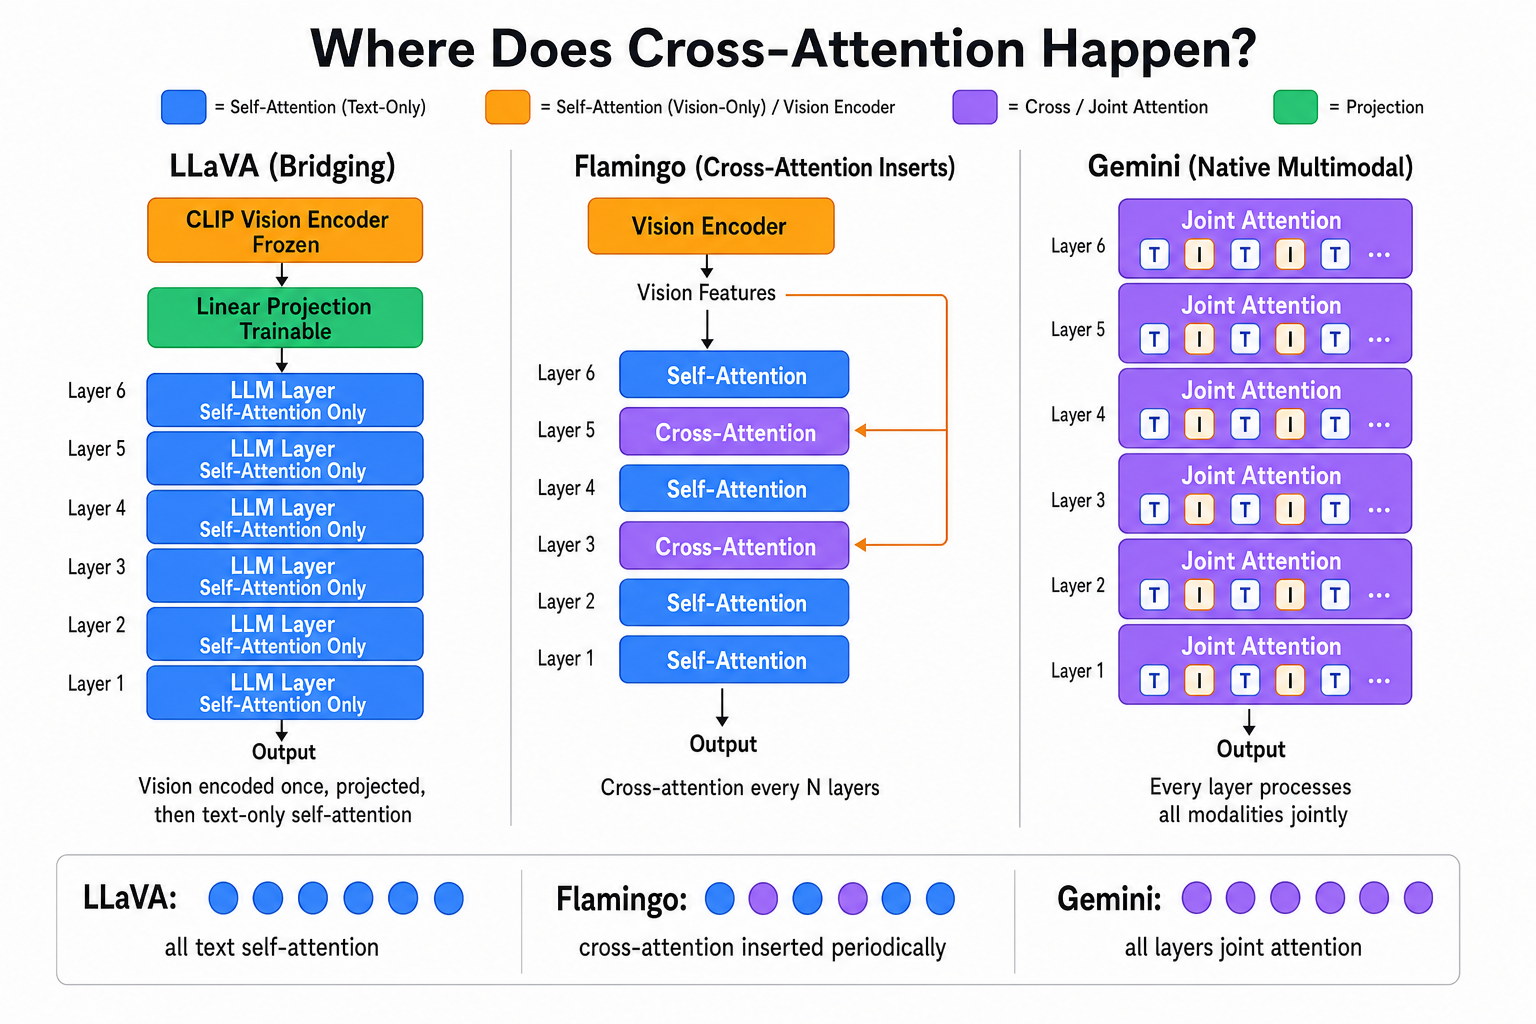
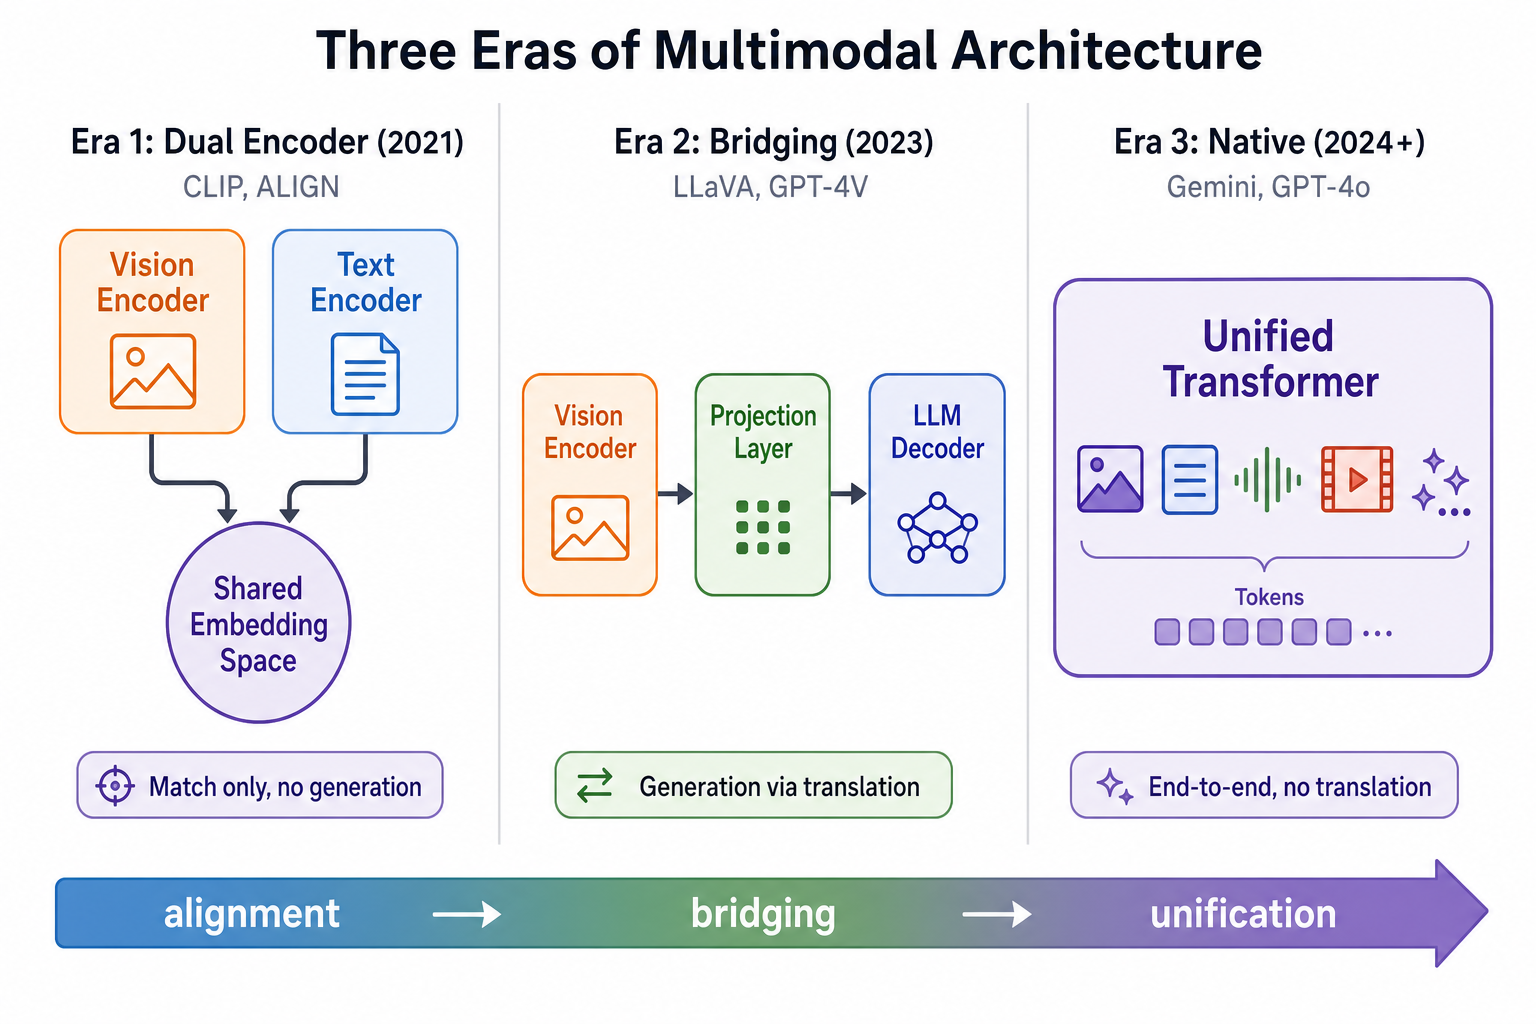
Day 30: fix image placement - restore era overview to ch4, add layer comparison to section 5.2

diff --git a/articles/en/day30-multimodal-basics.md b/articles/en/day30-multimodal-basics.md
@@ -251,6 +251,9 @@ Different architectures place cross-attention at different depths:
 
 The trend is clear: earlier architectures added cross-attention as an afterthought; modern architectures bake it into every layer.
 
+![Where Does Cross-Attention Happen? A Layer-by-Layer Comparison](../zh/images/day30/cross-attention-placement-comparison.png)
+*Figure 5: Layer-level architecture comparison of LLaVA, Flamingo, and Gemini. LLaVA projects vision features once then uses self-attention only; Flamingo inserts cross-attention every N layers; Gemini uses joint attention at every layer.*
+
 > **💡 Deep Dive: Self-Attention vs Cross-Attention**
 >
 > The key difference is where Q, K, and V come from:
